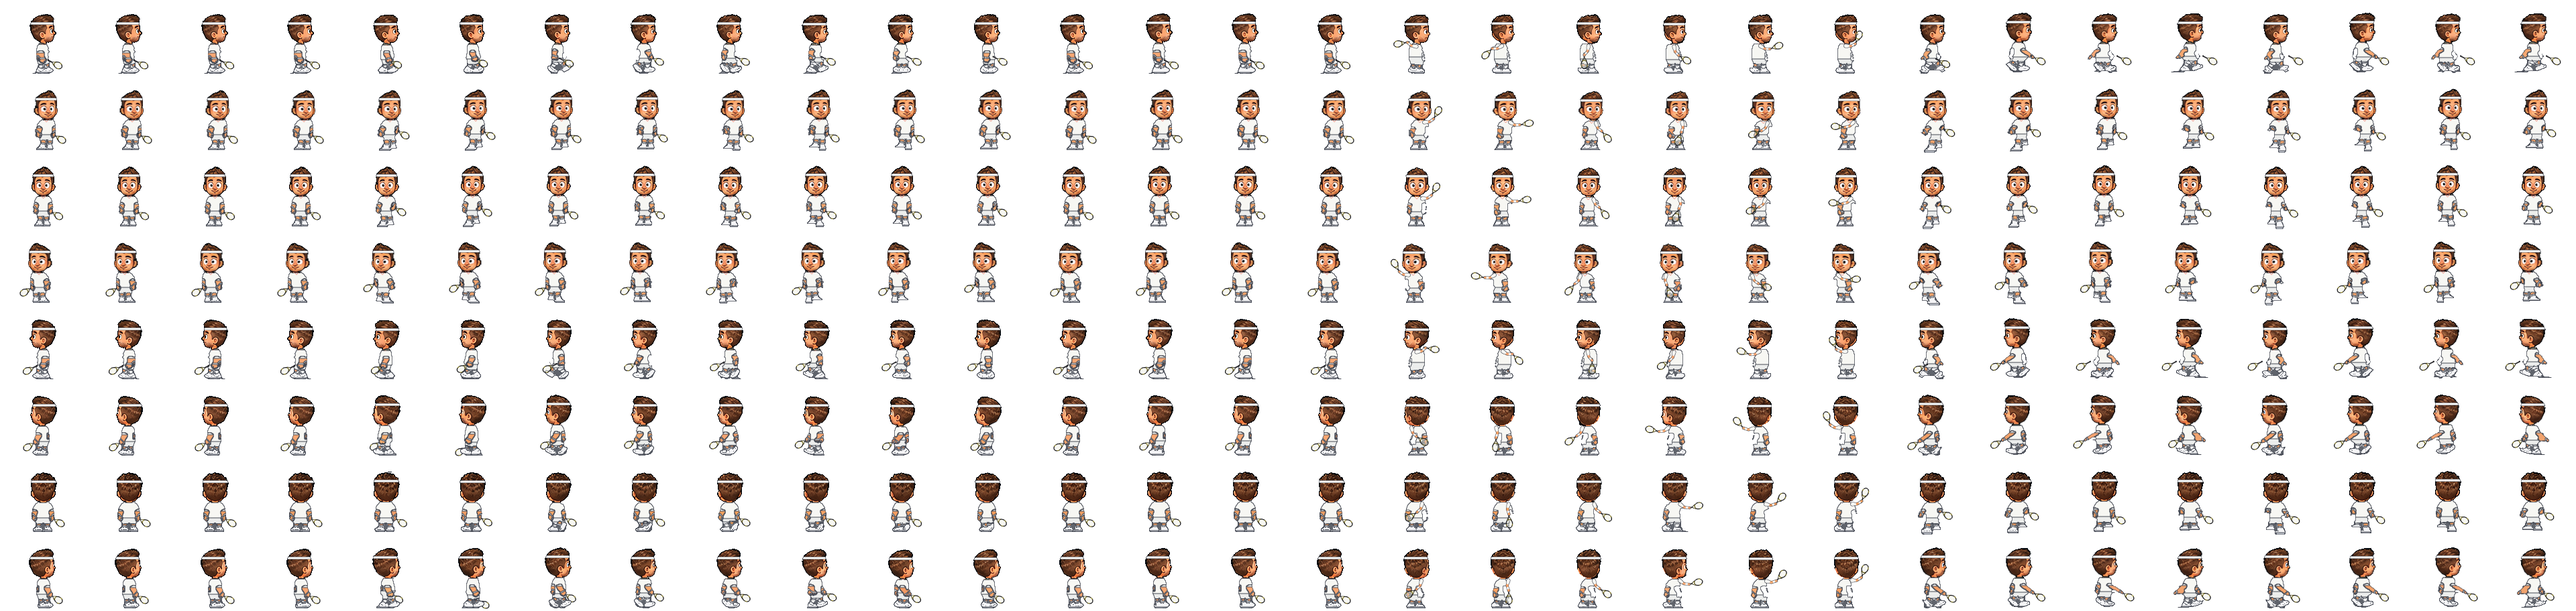
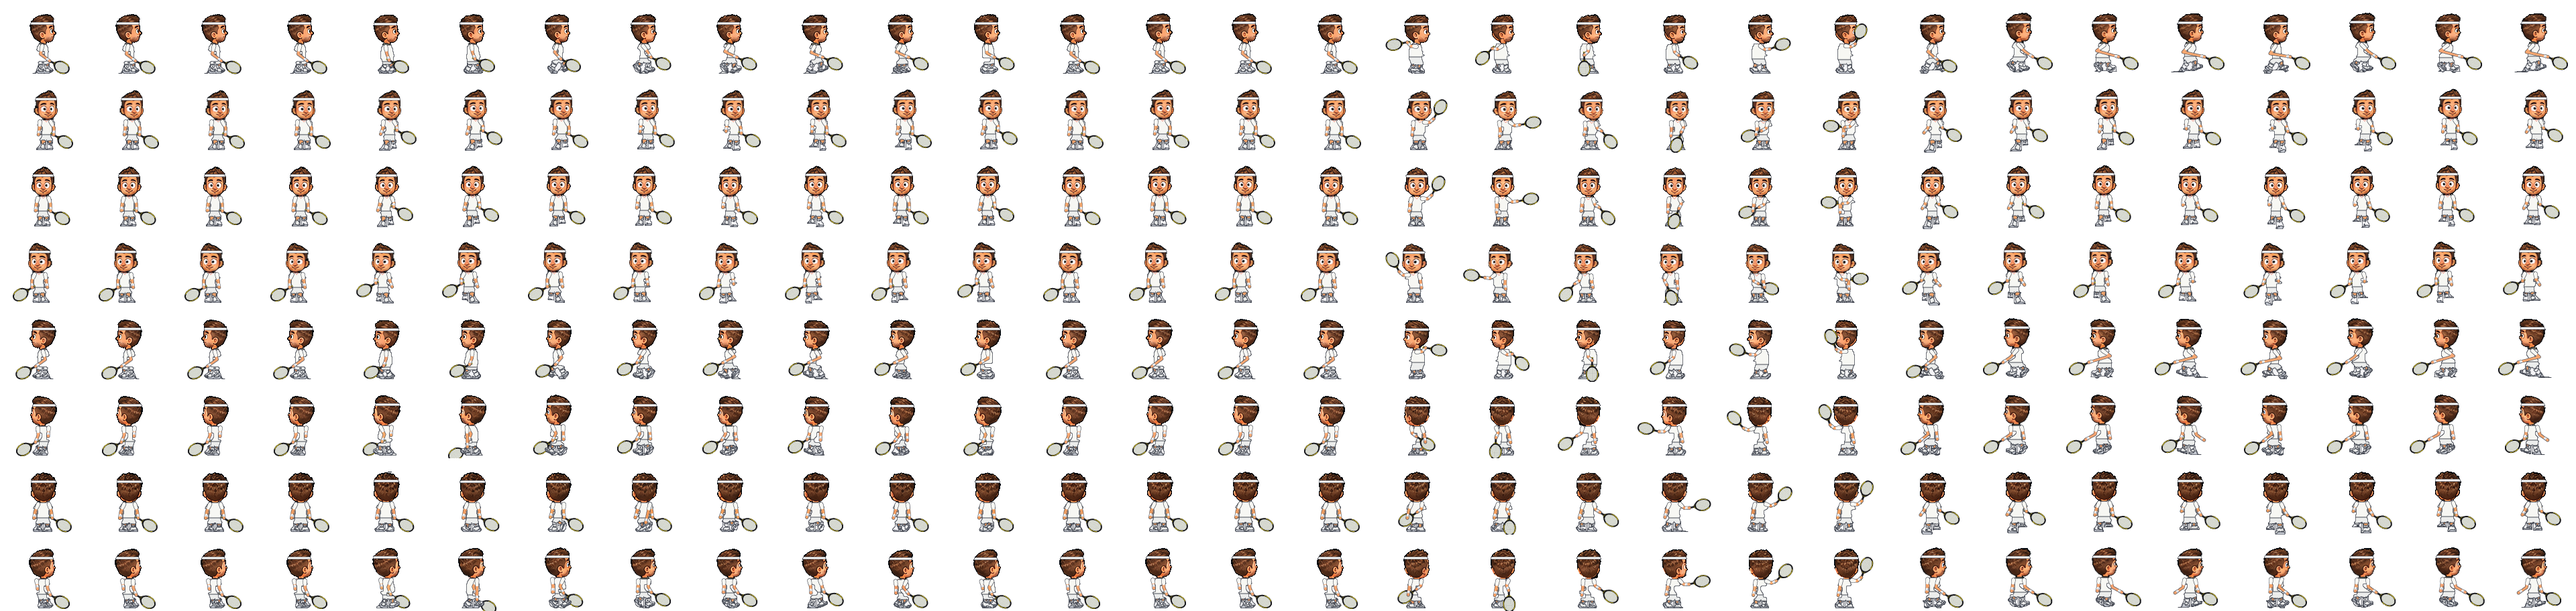
Tennis James: bigger racket, clean vector arms, wristbands, sneakers, headband shading

diff --git a/phaser-tag-client/tools/make_tennis_skin.py b/phaser-tag-client/tools/make_tennis_skin.py
@@ -57,7 +57,10 @@ BAND = (252, 252, 250)
 R_BLACK = (24, 24, 28)
 R_YELLOW = (238, 214, 30)
 R_GRIP = (40, 40, 44)
-STRING = (236, 236, 222)
+STRING = (150, 154, 150)
+BED = (232, 234, 224)
+BAND_SHADE = (214, 218, 226)
+SKIN_LINE = (120, 70, 50)
 
 
 def S(v):
@@ -134,8 +137,9 @@ def disc_fn(c, r):
 
 # --- racket --------------------------------------------------------------------
 def racket_layer(size, hand, ang):
-    """Black frame with yellow accents, open throat, visible string bed. The
-    handle starts just behind the hand so the fist closes round the grip."""
+    """Black frame with a yellow accent band, yellow throat, black/yellow
+    handle with grip wrap, opaque string bed with a visible string grid.
+    The handle runs through the hand so the fist closes round the grip."""
     h, w = size
     im = Image.new("RGBA", (w * SS, h * SS), (0, 0, 0, 0))
     d = ImageDraw.Draw(im)
@@ -145,38 +149,46 @@ def racket_layer(size, hand, ang):
     def P(t, s=0.0):
         return (S(hand[0] + ux * t + nx * s), S(hand[1] + uy * t + ny * s))
 
-    # handle + butt cap
-    d.polygon([P(-2.2, 0.9), P(5.0, 0.8), P(5.0, -0.8), P(-2.2, -0.9)], fill=R_GRIP)
-    d.ellipse([P(-2.4)[0] - S(1.0), P(-2.4)[1] - S(1.0), P(-2.4)[0] + S(1.0), P(-2.4)[1] + S(1.0)], fill=R_BLACK)
-    # throat: two beams opening into the head, yellow inner stripe
-    for s in (1, -1):
-        d.line([P(4.8, s * 0.6), P(8.9, s * 3.4)], fill=R_BLACK, width=int(S(1.1)))
-        d.line([P(5.4, s * 0.6), P(8.6, s * 2.9)], fill=R_YELLOW, width=int(S(0.35)))
-    # head
-    c = (hand[0] + ux * 14.2, hand[1] + uy * 14.2)
-    a, b = 6.2, 4.7
+    def quad(t0, t1, r0, r1, col):
+        d.polygon([P(t0, r0), P(t1, r1), P(t1, -r1), P(t0, -r0)], fill=col)
+
+    # handle: black outline, grip wrap, yellow butt band
+    quad(-4.6, 7.6, 1.45, 1.25, R_BLACK)
+    quad(-3.9, 5.0, 0.95, 0.85, R_GRIP)
+    for t in np.arange(-3.4, 5.0, 1.3):
+        d.line([P(t, -0.9), P(t + 0.7, 0.9)], fill=R_BLACK, width=max(1, int(S(0.3))))
+    quad(-4.4, -3.6, 1.2, 1.2, R_YELLOW)
+    # throat: yellow beams with black edges
+    a, b = 11.2, 8.4
+    c_t = 7.0 + 2.2 + a
+    c = (hand[0] + ux * c_t, hand[1] + uy * c_t)
+    for sg in (1, -1):
+        d.line([P(7.0, sg * 0.7), P(c_t - a + 1.6, sg * 4.6)], fill=R_BLACK, width=int(S(1.9)))
+        d.line([P(7.2, sg * 0.7), P(c_t - a + 1.4, sg * 4.4)], fill=R_YELLOW, width=int(S(0.9)))
+    d.polygon([P(7.4, 0.5), P(c_t - a + 2.2, 3.4), P(c_t - a + 2.2, -3.4), P(7.4, -0.5)], fill=R_BLACK)
     ring = [(S(c[0] + ux * a * math.cos(t) + nx * b * math.sin(t)),
-             S(c[1] + uy * a * math.cos(t) + ny * b * math.sin(t))) for t in np.linspace(0, 2 * math.pi, 48)]
-    # string bed (light, semi-clear) + strings
+             S(c[1] + uy * a * math.cos(t) + ny * b * math.sin(t))) for t in np.linspace(0, 2 * math.pi, 72)]
+    # opaque string bed + string grid, clipped to the head
     bed = Image.new("RGBA", im.size, (0, 0, 0, 0))
     bd = ImageDraw.Draw(bed)
-    bd.polygon(ring, fill=(240, 240, 226, 60))
-    for k in np.arange(-a + 1.2, a, 1.35):
+    bd.polygon(ring, fill=BED + (255,))
+    sw = max(1, int(S(0.32)))
+    for k in np.arange(-a + 1.6, a - 0.8, 1.8):
         bd.line([(S(c[0] + ux * k - nx * b), S(c[1] + uy * k - ny * b)),
-                 (S(c[0] + ux * k + nx * b), S(c[1] + uy * k + ny * b))], fill=STRING + (235,), width=max(1, int(S(0.26))))
-    for k in np.arange(-b + 1.1, b, 1.3):
+                 (S(c[0] + ux * k + nx * b), S(c[1] + uy * k + ny * b))], fill=STRING + (255,), width=sw)
+    for k in np.arange(-b + 1.5, b - 0.7, 1.8):
         bd.line([(S(c[0] - ux * a + nx * k), S(c[1] - uy * a + ny * k)),
-                 (S(c[0] + ux * a + nx * k), S(c[1] + uy * a + ny * k))], fill=STRING + (235,), width=max(1, int(S(0.26))))
+                 (S(c[0] + ux * a + nx * k), S(c[1] + uy * a + ny * k))], fill=STRING + (255,), width=sw)
     clip = Image.new("L", im.size, 0)
     ImageDraw.Draw(clip).polygon(ring, fill=255)
     bed.putalpha(Image.fromarray(np.minimum(np.asarray(bed.split()[3]), np.asarray(clip))))
     im.alpha_composite(bed)
-    d.line(ring + [ring[0]], fill=R_BLACK, width=int(S(1.25)), joint="curve")
-    # yellow accents on both sides of the frame and at the tip
-    for t0, t1 in ((0.9, 1.5), (-1.5, -0.9), (2.6, 3.7)):
-        seg = [(S(c[0] + ux * (a - 0.1) * math.cos(t) + nx * (b - 0.1) * math.sin(t)),
-                S(c[1] + uy * (a - 0.1) * math.cos(t) + ny * (b - 0.1) * math.sin(t))) for t in np.linspace(t0, t1, 10)]
-        d.line(seg, fill=R_YELLOW, width=int(S(0.55)), joint="curve")
+    # bold black frame, yellow accent band along both sides, black tip
+    d.line(ring + [ring[0]], fill=R_BLACK, width=int(S(2.1)), joint="curve")
+    for t0, t1 in ((0.75, 2.0), (-2.0, -0.75)):
+        seg = [(S(c[0] + ux * a * math.cos(t) + nx * b * math.sin(t)),
+                S(c[1] + uy * a * math.cos(t) + ny * b * math.sin(t))) for t in np.linspace(t0, t1, 16)]
+        d.line(seg, fill=R_YELLOW, width=int(S(0.95)), joint="curve")
     return im
 
 
@@ -192,20 +204,27 @@ def ik(sh, hand, L1, L2, bend):
     return (sh[0] + ux * a + px * hh, sh[1] + uy * a + py * hh)
 
 
-def arm_parts(sh, elbow, hand, skin):
+def arm_parts(sh, elbow, hand, skin, sleeve=0.4):
     ex, ey = hand[0] - elbow[0], hand[1] - elbow[1]
     en = math.hypot(ex, ey) or 1.0
     ux, uy = ex / en, ey / en
-    wrist = (hand[0] - ux * 1.6, hand[1] - uy * 1.6)
-    band0 = (hand[0] - ux * 3.6, hand[1] - uy * 3.6)
+    wrist = (hand[0] - ux * 1.7, hand[1] - uy * 1.7)
+    band0 = (hand[0] - ux * 3.9, hand[1] - uy * 3.9)
     sx, sy = elbow[0] - sh[0], elbow[1] - sh[1]
-    sleeve_end = (sh[0] + sx * 0.4, sh[1] + sy * 0.4)
+    sleeve_end = (sh[0] + sx * sleeve, sh[1] + sy * sleeve)
+    # shade the wristband on its lower edge
+    nx, ny = -uy, ux
+    if ny < 0:
+        nx, ny = -nx, -ny
+    sh0 = (band0[0] + nx * 1.0, band0[1] + ny * 1.0)
+    sh1 = (wrist[0] + nx * 1.0, wrist[1] + ny * 1.0)
     return [
-        (capsule_fn(sh, 2.4, elbow, 2.0), skin),
-        (capsule_fn(elbow, 2.0, wrist, 1.7), skin),
-        (capsule_fn(sh, 2.8, sleeve_end, 2.6), WHITE),
-        (capsule_fn(band0, 1.95, wrist, 1.95), BAND),
-        (disc_fn(hand, 2.1), skin),
+        (capsule_fn(sh, 2.7, elbow, 2.35), skin),
+        (capsule_fn(elbow, 2.35, wrist, 2.0), skin),
+        (capsule_fn(sh, 3.1, sleeve_end, 2.9), WHITE),
+        (capsule_fn(band0, 2.35, wrist, 2.35), BAND),
+        (capsule_fn(sh0, 1.3, sh1, 1.3), BAND_SHADE),
+        (disc_fn(hand, 2.45), skin),
     ]
 
 
@@ -318,6 +337,53 @@ def tennify(frame, direction, anim, col, meta, memo, env_memo):
             if len(xs):
                 body[y, xs.min():xs.max() + 1] |= env[y, xs.min():xs.max() + 1]
 
+    else:
+        for _ in range(3):
+            nb = sum(np.roll(np.roll(body, dy, 0), dx, 1).astype(int) for dy in (-1, 0, 1) for dx in (-1, 0, 1)) - body.astype(int)
+            body &= ~((nb < 4) & (yy > g.neck) & (yy < g.hem + 5))
+        for y in range(g.neck + 2, g.hem):
+            xs = np.nonzero(body[y])[0]
+            if len(xs):
+                body[y, xs.min():xs.max() + 1] = True
+
+    # drop thin (<=2 px) outline strands of removed arms: 3x3 opening on the torso rows
+    def _nb_all(m):
+        e = m.copy()
+        for dy in (-1, 0, 1):
+            for dx in (-1, 0, 1):
+                e &= np.roll(np.roll(m, dy, 0), dx, 1)
+        return e
+    tz0 = (yy > g.neck + 2) & (yy < g.hem - 1)
+    opened = grow(_nb_all(body), body, 1)
+    body &= ~(tz0 & ~opened)
+    # solid torso: close 1-2 px seams and fill pinholes left by removed arms
+    tz = (yy > g.neck) & (yy < g.hem)
+    for y in range(g.neck + 1, g.hem):
+        row = body[y]
+        for x in range(1, w - 3):
+            if not row[x] and row[x - 1]:
+                for gap in (1, 2):
+                    if row[x + gap] and not row[x:x + gap].any():
+                        row[x:x + gap] = True
+                        break
+    for x in range(w):
+        col_ = body[:, x]
+        for y in range(g.neck + 1, g.hem - 2):
+            if not col_[y] and col_[y - 1]:
+                for gap in (1, 2):
+                    if col_[y + gap] and not col_[y:y + gap].any():
+                        col_[y:y + gap] = True
+                        break
+    outside = np.zeros_like(body)
+    outside[0, :] = outside[-1, :] = True
+    outside[:, 0] = outside[:, -1] = True
+    outside &= ~body
+    while True:
+        nxt = grow(outside, ~body, 1)
+        if nxt.sum() == outside.sum():
+            break
+        outside = nxt
+    body |= ~outside & ~body & tz
     # classes
     navy = body & ~skinlike & (b_ - g_ > 11)
     waist = g.hem - 12
@@ -329,45 +395,61 @@ def tennify(frame, direction, anim, col, meta, memo, env_memo):
     shirt = body & (yy < waist)
     lower = body & (yy >= waist)
     legs_skin = lower & skinlike & (yy >= g.hem - 3)
-    shoes = lower & (yy >= g.hem) & ~skinlike
+    shoes = lower & (yy >= g.hem) & ~skinlike & ~(b_ - g_ > 11)
     top_shoe = np.full(w, 10 ** 6)
     for x in range(w):
         ys = np.nonzero(shoes[:, x])[0]
         if len(ys):
             top_shoe[x] = ys.min()
-    socks = legs_skin & (yy >= top_shoe[None, :] - 2)
+    socks = legs_skin & grow(shoes, legs_skin | shoes, 2) & (yy >= top_shoe[None, :] - 3)
     legs_skin &= ~socks
     shorts = lower & ~legs_skin & ~socks & ~shoes
-    sole = shoes & (yy >= g.bottom - 1)
+    # a clear gap between the legs (front / back views)
+    if direction not in PROFILE:
+        best, gx = -1, None
+        for x in range(int(g.hip_cx) - 4, int(g.hip_cx) + 5):
+            col_ = lower[g.hem:g.bottom - 1, x]
+            dark = ((r_ + g_ + b_)[g.hem:g.bottom - 1, x] < 110) & col_
+            sc = int(dark.sum()) * 2 - int(col_.sum()) // 3
+            if sc > best:
+                best, gx = sc, x
+        if gx is not None and best > 2:
+            cut_ = (xx == gx) & (yy >= g.hem) & (yy <= g.bottom - 1)
+            for m_ in (shoes, socks, legs_skin, lower):
+                m_ &= ~cut_
+    sole = shoes & ((yy >= g.bottom - 1) | ((r_ + g_ + b_) > 450))
     skin_px = f[face][:, :3]
     skin = tuple(int(v) for v in np.median(skin_px, 0)) if len(skin_px) else (240, 180, 130)
     lum = r_ + g_ + b_
-    details = (lower & (yy >= g.hem - 2) & (lum < 70)) | ((shoes | socks) & (lum < 60))
+    details = lower & (yy >= g.hem - 2) & (lum < 45) & ~shoes & ~socks
     body_im = class_layer([(shirt, WHITE), (shorts, SHORTS), (legs_skin, skin), (socks, SOCK),
                            (shoes & ~sole, SHOE), (sole, SOLE)], LINE)
 
     # base arms (non-tag ones): sleeve near the shoulder, skin, wristband, hand
-    arm_classes = []
-    hands_keep = np.zeros_like(a)
+    arm_geo = []
     for comp in components8(arms):
-        if comp.sum() < 4:
+        if comp.sum() < 6:
             continue
+        ys, xs = np.nonzero(comp)
+        if direction in PROFILE:
+            shp = (g.head_cx - PROFILE[direction] * 0.5, g.neck + 4.5)
+        else:
+            sd = 1 if xs.mean() + 0.5 > g.head_cx else -1
+            shp = (g.head_cx + sd * 8.0, g.neck + 4.5)
         hm = hands & comp
-        sk = comp & skinlike & ~hm
-        ys = np.nonzero(comp)[0]
-        sk_rows = np.nonzero(sk.any(1))[0]
-        cut = sk_rows.min() if len(sk_rows) else ys.min() + 6
-        cut = min(max(cut, ys.min() + 3), ys.min() + 8)
-        sleeve = comp & (yy < cut)
-        cuff = comp & ~hm & grow(hm, comp, 2) if hm.any() else np.zeros_like(comp)
-        arm_classes += [(sleeve & ~cuff, WHITE), (comp & ~sleeve & ~cuff, skin), (cuff, BAND)]
-        hands_keep |= hm
-    arm_im = class_layer(arm_classes, LINE, 0.5) if arm_classes else None
+        if hm.any():
+            hy_, hx_ = np.nonzero(hm)
+            hp = (hx_.mean() + 0.5, hy_.mean() + 0.5)
+        else:
+            dd = (xs + 0.5 - shp[0]) ** 2 + (ys + 0.5 - shp[1]) ** 2
+            kk = int(dd.argmax())
+            hp = (xs[kk] + 0.5, ys[kk] - 1.0)
+        arm_geo.append([comp, shp, hp])
 
     # headband: a strip across the head at the hairline
     hb0 = g.top + 12
     hband = head & (yy >= hb0) & (yy <= hb0 + 3)
-    head_band_im = class_layer([(hband, BAND)], LINE, 0.55, seams=False)
+    head_band_im = class_layer([(hband & (yy < hb0 + 3), BAND), (hband & (yy >= hb0 + 3), BAND_SHADE)], LINE, 0.55, seams=False)
 
     # polo collar: coral V trim at the neck (front views), collar line otherwise
     coll = Image.new("RGBA", (w * SS, h * SS), (0, 0, 0, 0))
@@ -397,10 +479,10 @@ def tennify(frame, direction, anim, col, meta, memo, env_memo):
         reach = 15.0
         hand = (sh[0] + math.cos(ai) * reach, sh[1] + math.sin(ai) * reach)
         # elbow droops (down / away from the head)
-        e1 = ik(sh, hand, 8.0, 7.6, 1)
-        e2 = ik(sh, hand, 8.0, 7.6, -1)
+        e1 = ik(sh, hand, 8.3, 7.9, 1)
+        e2 = ik(sh, hand, 8.3, 7.9, -1)
         elbow = e1 if e1[1] >= e2[1] else e2
-        drawn_arm = shapes_layer(size, arm_parts(sh, elbow, hand, skin), LINE, 0.6)
+        drawn_arm = shapes_layer(size, arm_parts(sh, elbow, hand, skin), LINE, 0.55)
         hx, hy = hand
         rang = ri
     else:
@@ -426,6 +508,20 @@ def tennify(frame, direction, anim, col, meta, memo, env_memo):
             rang = math.radians(90 - side * 58)
         behind = direction in BACK
     racket_im = racket_layer(size, (hx, hy), rang)
+    base_arm_ims = []
+    if arm_geo and not tag:
+        kbest = min(range(len(arm_geo)), key=lambda i: (arm_geo[i][2][0] - hx) ** 2 + (arm_geo[i][2][1] - hy) ** 2)
+        arm_geo[kbest][2] = (hx, hy)
+    for comp, shp, hp in arm_geo:
+        ys, xs = np.nonzero(comp)
+        L = math.hypot(hp[0] - shp[0], hp[1] - shp[1]) or 1.0
+        dd = np.hypot(xs + 0.5 - shp[0], ys + 0.5 - shp[1])
+        mid = (dd > 0.35 * L) & (dd < 0.65 * L)
+        if mid.sum() >= 2 and L > 6:
+            el = (xs[mid].mean() + 0.5, ys[mid].mean() + 0.5)
+        else:
+            el = ((shp[0] + hp[0]) / 2, (shp[1] + hp[1]) / 2)
+        base_arm_ims.append(shapes_layer(size, arm_parts(shp, el, hp, skin, 0.45), LINE, 0.55))
     # base hand pixels closing over the grip (non-tag)
     grip = None
     if hand_comp is not None:
@@ -437,8 +533,6 @@ def tennify(frame, direction, anim, col, meta, memo, env_memo):
     if body_im is not None:
         cv.alpha_composite(body_im)
     cv.alpha_composite(coll)
-    if arm_im is not None:
-        cv.alpha_composite(arm_im)
     out = down(cv)
     dl = np.zeros((h, w, 4))
     dl[details] = (*[c / 255 for c in LINE], 1.0)
@@ -448,21 +542,30 @@ def tennify(frame, direction, anim, col, meta, memo, env_memo):
         out = over(out, down(head_band_im))
     if not behind:
         out = over(out, down(racket_im))
-        if grip is not None:
-            hand_only = Image.new("RGBA", (w * SS, h * SS), (0, 0, 0, 0))
-            gl = class_layer([(grip, skin)], LINE, 0.55, seams=False)
-            if gl is not None:
-                out = over(out, down(gl))
+    for im_ in base_arm_ims:
+        out = over(out, down(im_))
     if drawn_arm is not None:
         out = over(out, down(drawn_arm))
     res = to_u8(out)
     res[res[..., 3] < 8] = 0
+    # close 1-2 px seams inside the torso (between body and redrawn arms)
+    al = res[..., 3].astype(int)
+    for y in range(int(g.neck) + 2, int(g.hem) + 1):
+        row = al[y]
+        for x in range(1, w - 2):
+            if row[x] < 200:
+                for gap in (1, 2):
+                    if x + gap < w and row[x - 1] >= 200 and row[x + gap] >= 200 and all(row[x:x + gap] < 200):
+                        for q in range(gap):
+                            res[y, x + q] = res[y, x - 1] if q == 0 else res[y, x + gap]
+                        break
+        al[y] = res[y, :, 3]
     # drop stray specks not attached to the figure
     comps = components8(res[..., 3] > 40)
     if comps:
         big = max(comps, key=lambda c: c.sum())
         for c in comps:
-            if c is not big and c.sum() < 12:
+            if c is not big and c.sum() < 40:
                 res[grow(c, np.ones_like(c), 1) & ~grow(big, np.ones_like(big), 1)] = 0
     return res
 
